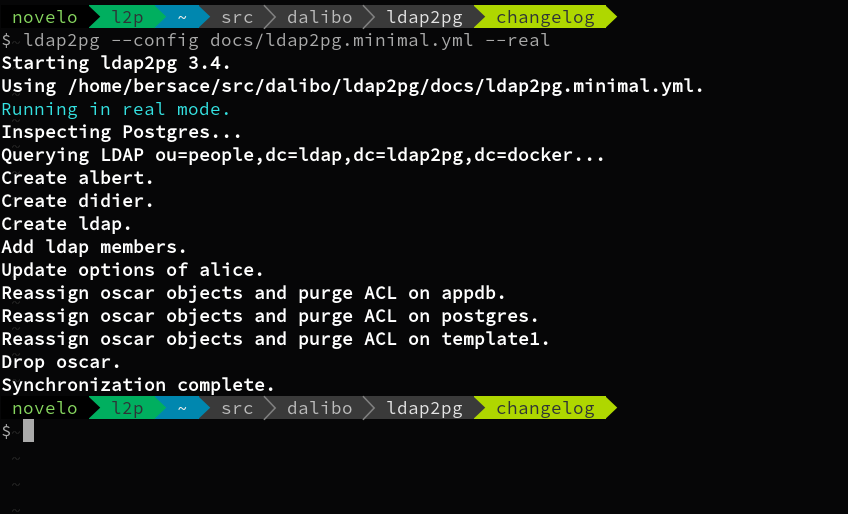
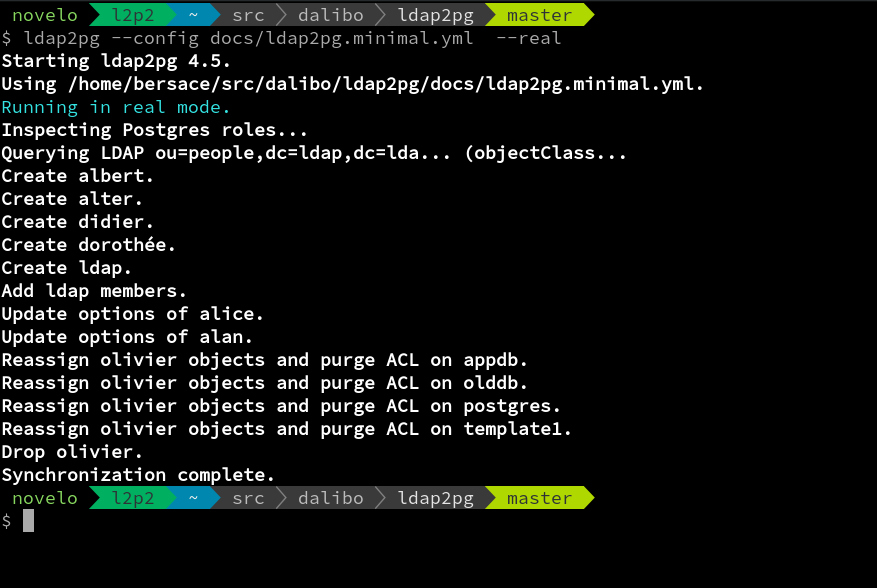
Update text sample and screenshot

Changed region(s): [[0.0, 0.0, 0.8278, 0.9027]]

diff --git a/README.rst b/README.rst
@@ -32,28 +32,27 @@ Here is a sample configuration and execution:
     - ldap:
         base: ou=people,dc=ldap,dc=ldap2pg,dc=docker
         filter: "(objectClass=organizationalRole)"
-        attribute: cn
       role:
         name_attribute: cn
         options: LOGIN
         parent: ldap
-    $ ldap2pg --color --config docs/ldap2pg.minimal.yml --real
-    Starting ldap2pg 3.4.
-    Using /.../src/dalibo/ldap2pg/docs/ldap2pg.minimal.yml.
+    $ ldap2pg --config docs/ldap2pg.minimal.yml --real
+    Starting ldap2pg 4.5.
+    Using .../docs/ldap2pg.minimal.yml.
     Running in real mode.
-    Inspecting Postgres...
-    Querying LDAP ou=people,dc=ldap,dc=ldap2pg,dc=docker...
+    Inspecting Postgres roles...
+    Querying LDAP ou=people,dc=ldap,dc=lda... (objectClass...
     Create albert.
     Create alter.
     Create didier.
+    Create dorothée.
     Create ldap.
     Add ldap members.
-    Update options of alan.
     Update options of alice.
-    Reassign oscar objects and purge ACL on template1.
-    Reassign oscar objects and purge ACL on appdb.
-    Reassign oscar objects and purge ACL on postgres.
-    Drop oscar.
+    Update options of alan.
+    Reassign olivier objects and purge ACL on appdb.
+    Reassign olivier objects and purge ACL on olddb.
+    Drop olivier.
     Synchronization complete.
     $
 
